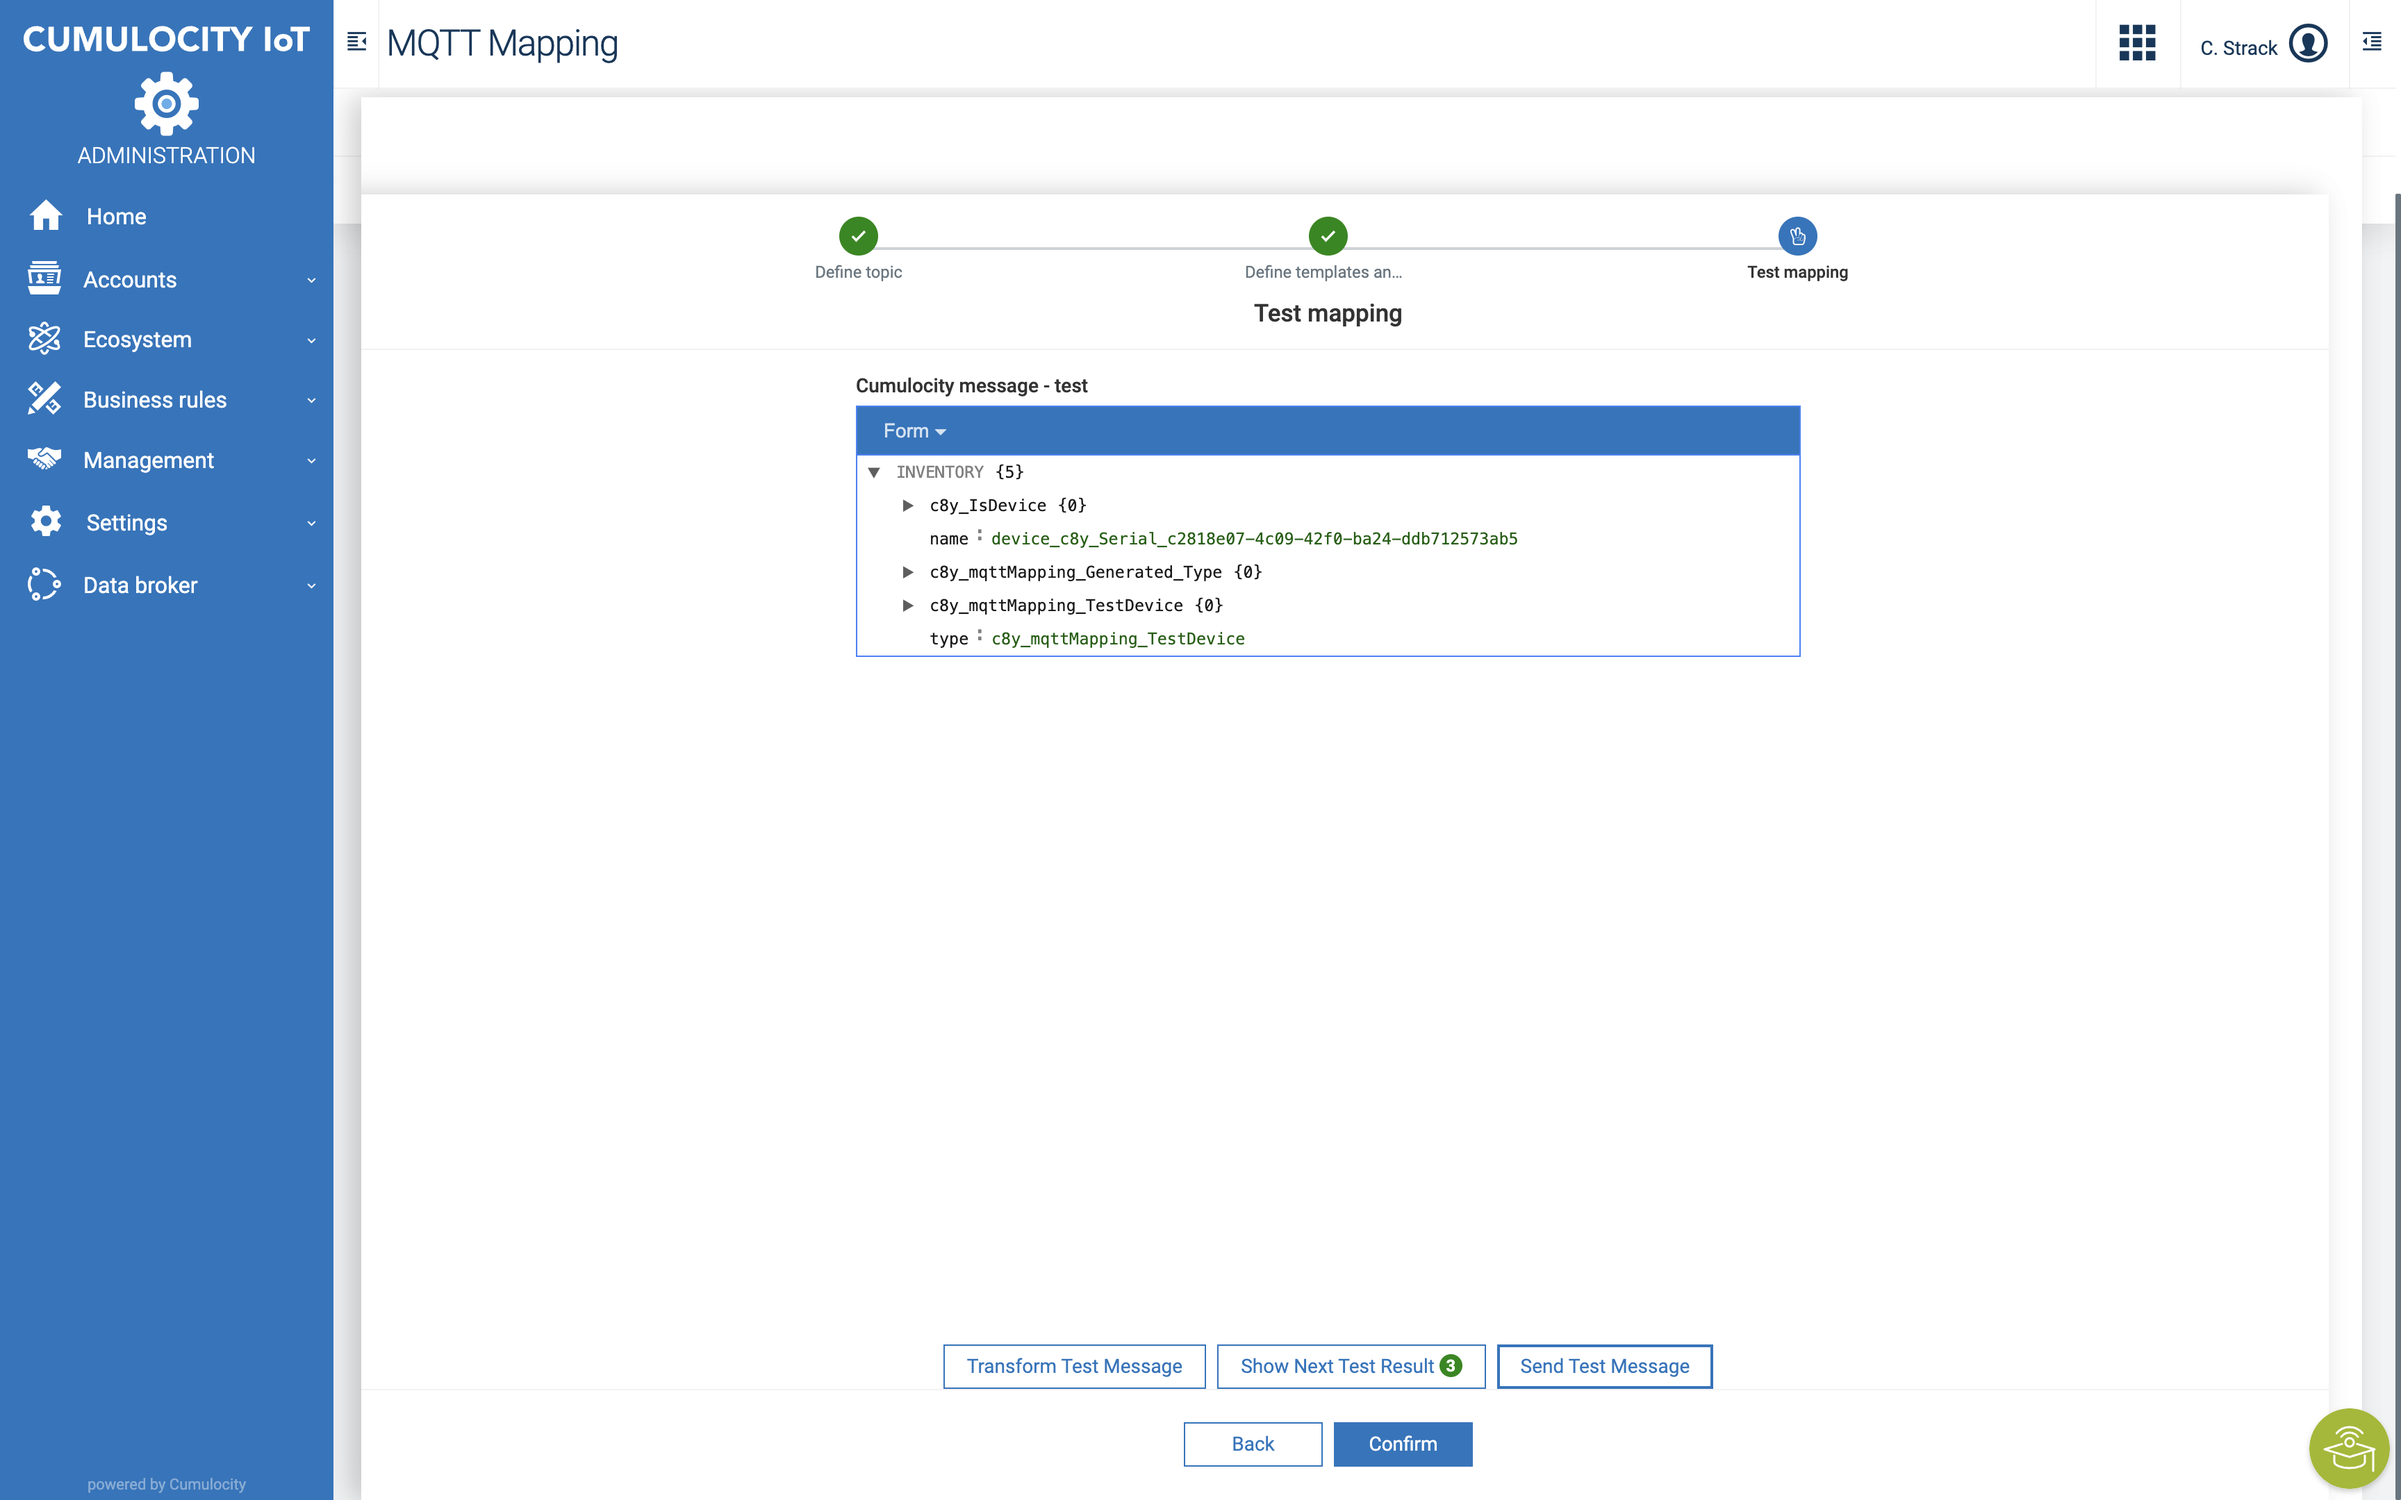
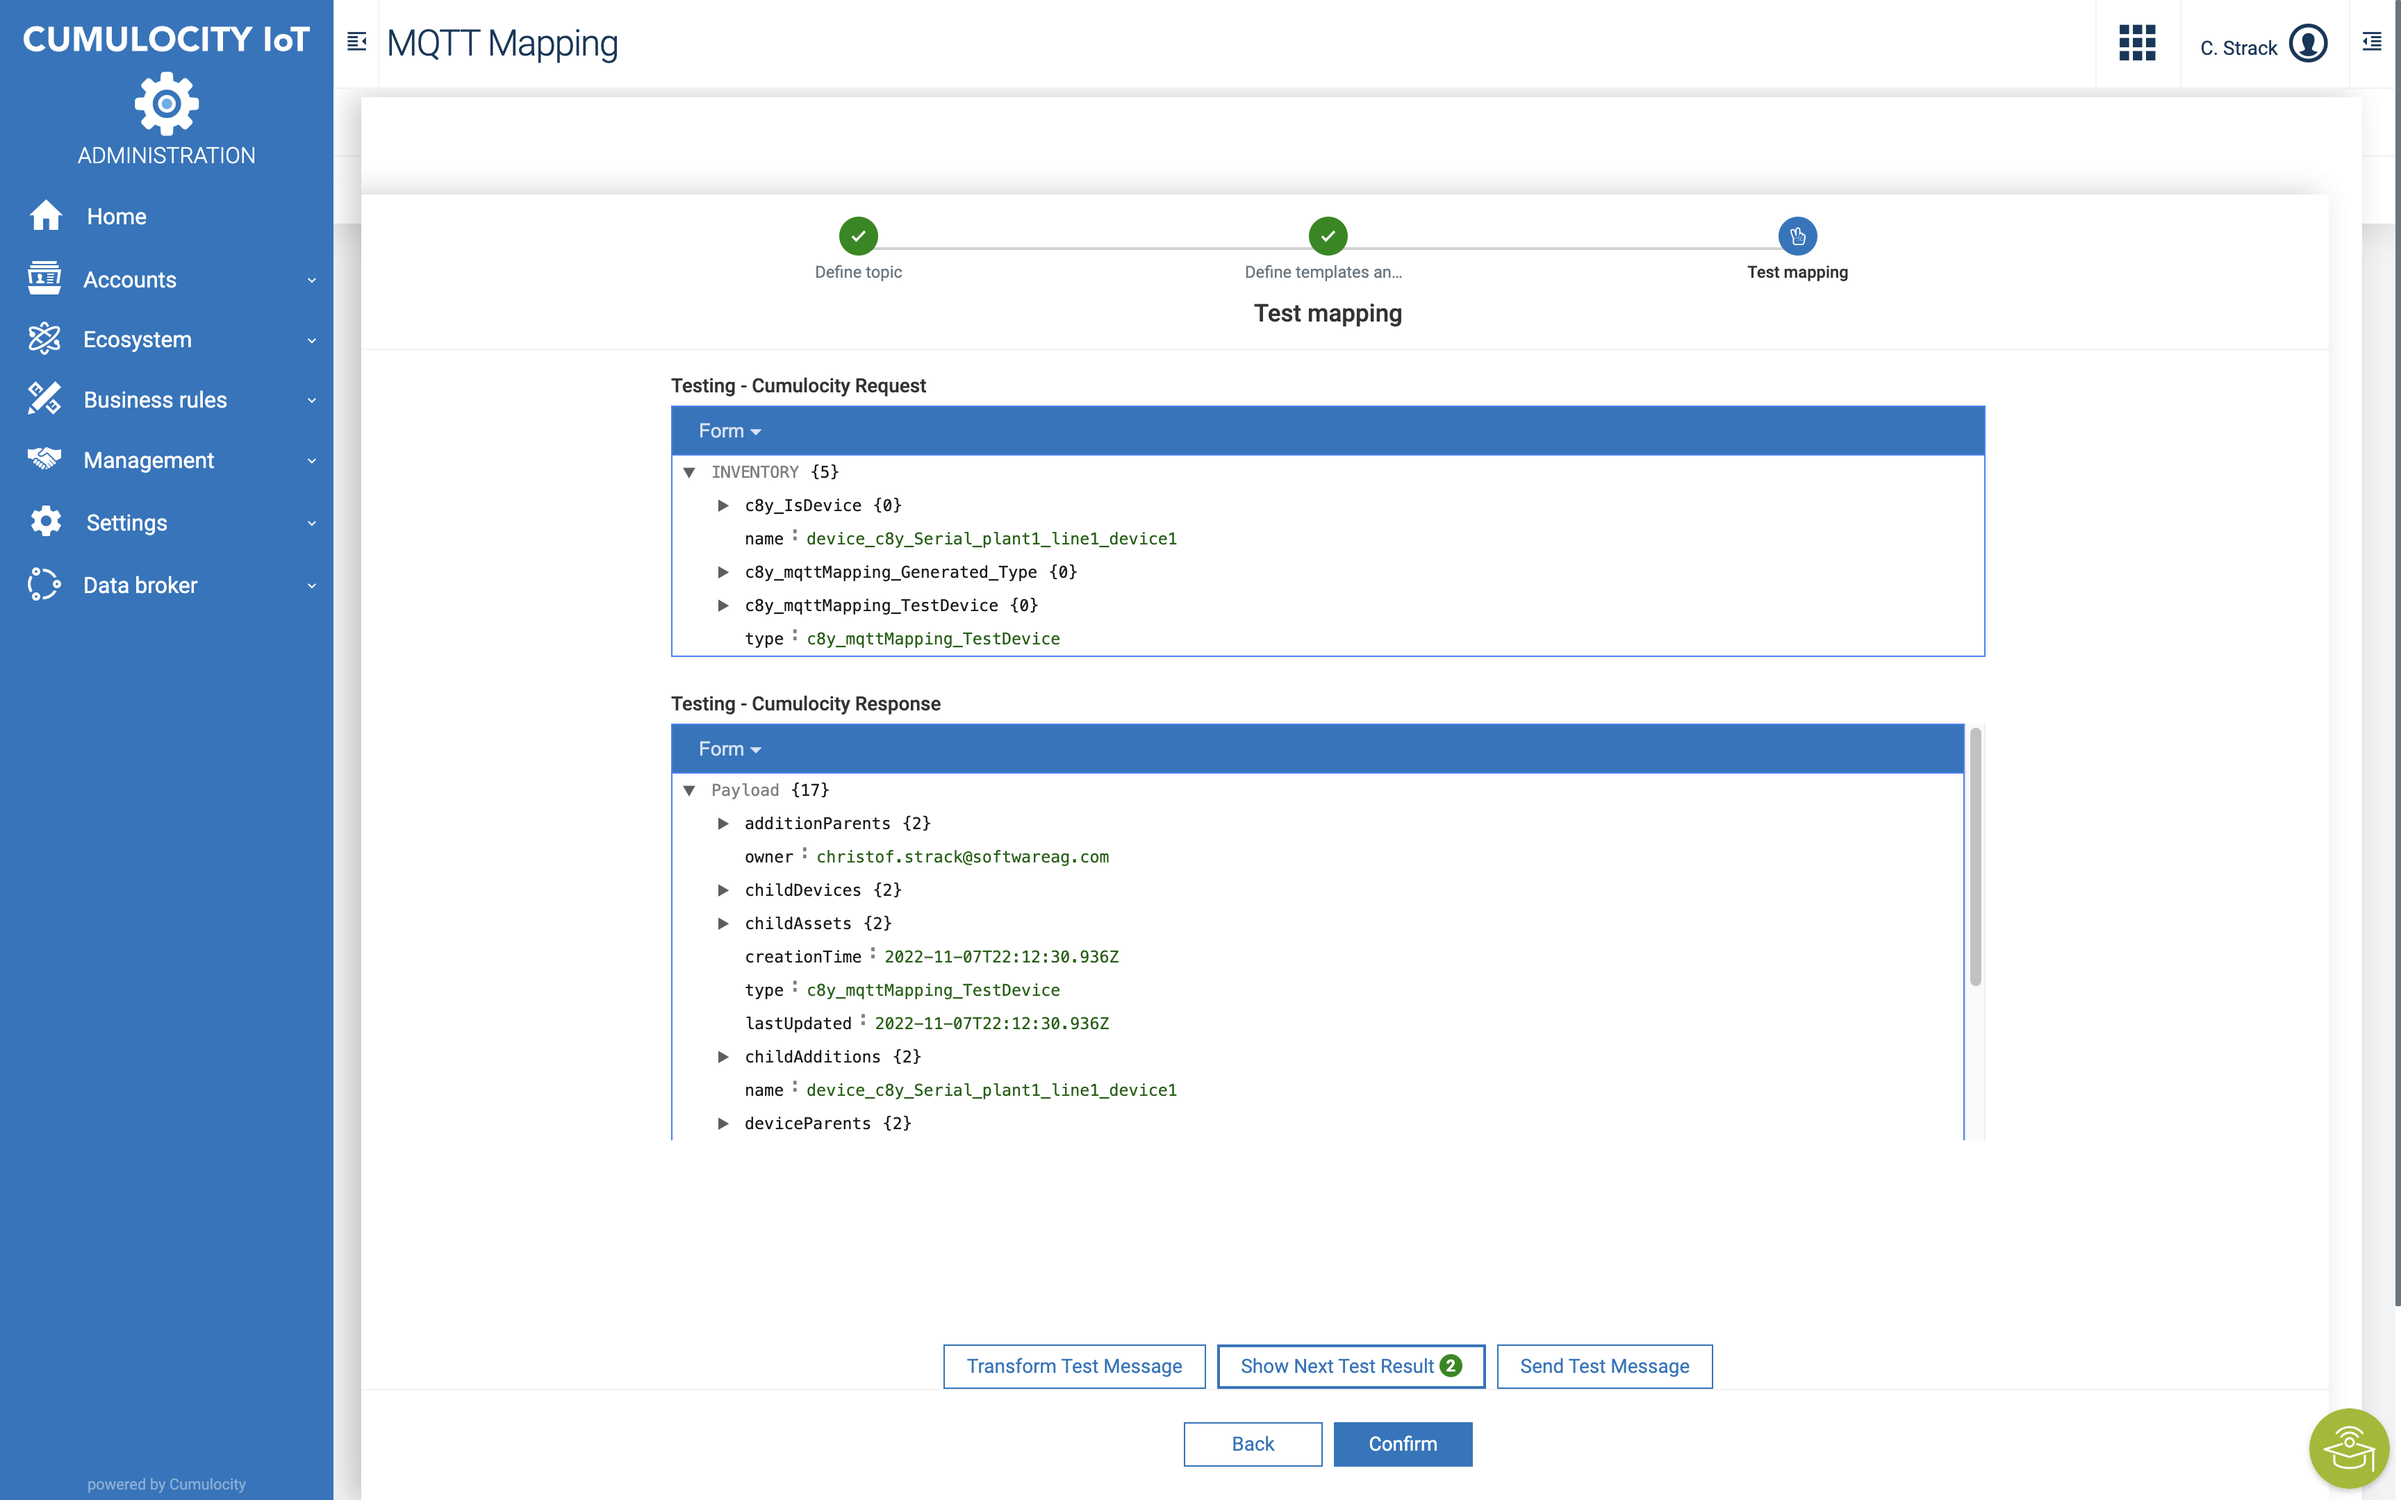
show cumulocty request  when testing as well

diff --git a/frontend/mqtt-mapping/src/mqtt-mapping/stepper/mapping-stepper.component.html b/frontend/mqtt-mapping/src/mqtt-mapping/stepper/mapping-stepper.component.html
@@ -235,7 +235,7 @@
                         <json-editor [options]="editorOptionsSource"
                           (onPathChanged)="onSelectedSourcePathChanged($event)" [data]="templateSource" #editorSource
                           id="editorSource"></json-editor>
-                          <c8y-messages class="text-left">
+                        <c8y-messages class="text-left">
                           <c8y-message *ngIf="currentSubstitution.pathSource == ''" translate><span
                               class="text-warning">Select source node to
                               define substitution!</span>
@@ -389,8 +389,8 @@
                         </mapping-substitution-renderer>
                       </div>
                       <c8y-messages class="text-right">
-                        <c8y-message
-                          *ngIf="(countDeviceIdentifers$ |async) != 1"><span class="text-warning">Excactly one substitution defining the
+                        <c8y-message *ngIf="(countDeviceIdentifers$ |async) != 1"><span class="text-warning">Excactly
+                            one substitution defining the
                             DeviceIdentifier must be used.</span>
                         </c8y-message>
                       </c8y-messages>
@@ -591,16 +591,28 @@
         <div class="col-xs-12 flex-grow no-gutter">
           <div class="card-inner-scroll fit-h">
             <div class="card-block p-b-0">
-              <div class="col-md-6 col-md-offset-3 col-lg-6 col-lg-offset-3">
-                <div>
-                  <div class="form-group">
-                    <label for="testResult" class="" translate>Cumulocity message - test</label>
-                    <json-editor [options]="editorOptionsTesting" [data]="templateTesting" #editorTesting></json-editor>
-                    <c8y-messages>
-                      <c8y-message *ngIf="templateTestingErrorMsg" translate><span
-                          class="text-warning">{{templateTestingErrorMsg}}</span>
-                      </c8y-message>
-                    </c8y-messages>
+              <div class="container">
+                <div class="row">
+                  <div class="col-md-6 col-md-offset-3 col-lg-10 col-lg-offset-1">
+                    <div class="form-group">
+                      <label for="testResult" class="" translate>Testing - Cumulocity Request</label>
+                      <json-editor [options]="editorOptionsTesting" [data]="templateTestingRequest" #editorTestingRequest>
+                      </json-editor>
+                      <c8y-messages>
+                        <c8y-message *ngIf="templateTestingErrorMsg" translate><span
+                            class="text-warning">{{templateTestingErrorMsg}}</span>
+                        </c8y-message>
+                      </c8y-messages>
+                    </div>
+                  </div>
+                </div>
+                <div class="row">
+                  <div class="col-md-6 col-md-offset-3 col-lg-10 col-lg-offset-1">
+                    <div class="form-group">
+                      <label for="testResult" class="" translate>Testing - Cumulocity Response</label>
+                      <json-editor [options]="editorOptionsTesting" [data]="templateTestingResponse" #editorTestingResponse>
+                      </json-editor>
+                    </div>
                   </div>
                 </div>
               </div>

diff --git a/frontend/mqtt-mapping/src/mqtt-mapping/stepper/mapping-stepper.component.ts b/frontend/mqtt-mapping/src/mqtt-mapping/stepper/mapping-stepper.component.ts
@@ -48,7 +48,8 @@ export class MappingStepperComponent implements OnInit, AfterContentChecked {
   templateTarget: any;
   templateTestingResults: C8YRequest[] = [];
   templateTestingErrorMsg: string;
-  templateTesting: any;
+  templateTestingRequest: any;
+  templateTestingResponse: any;
   selectedTestingResult: number = -1;
   countDeviceIdentifers$: BehaviorSubject<number> = new BehaviorSubject<number>(0);
 
@@ -79,7 +80,8 @@ export class MappingStepperComponent implements OnInit, AfterContentChecked {
 
   @ViewChild('editorSource', { static: false }) editorSource: JsonEditorComponent;
   @ViewChild('editorTarget', { static: false }) editorTarget: JsonEditorComponent;
-  @ViewChild('editorTesting', { static: false }) editorTesting: JsonEditorComponent;
+  @ViewChild('editorTestingRequest', { static: false }) editorTestingRequest: JsonEditorComponent;
+  @ViewChild('editorTestingResponse', { static: false }) editorTestingResponse: JsonEditorComponent;
 
   @ViewChild(SubstitutionRendererComponent, { static: false }) substitutionChild: SubstitutionRendererComponent;
 
@@ -284,11 +286,13 @@ export class MappingStepperComponent implements OnInit, AfterContentChecked {
     }
     this.selectedTestingResult++;
     if (this.selectedTestingResult >= 0 && this.selectedTestingResult < this.templateTestingResults.length ) {
-      this.templateTesting = this.templateTestingResults[this.selectedTestingResult].request;
-      this.editorTesting.setSchema(getSchema(this.templateTestingResults[this.selectedTestingResult].targetAPI),null);
+      this.templateTestingRequest = this.templateTestingResults[this.selectedTestingResult].request;
+      this.templateTestingResponse = this.templateTestingResults[this.selectedTestingResult].response;
+      this.editorTestingRequest.setSchema(getSchema(this.templateTestingResults[this.selectedTestingResult].targetAPI),null);
       this.templateTestingErrorMsg = this.templateTestingResults[this.selectedTestingResult].error?.message;
     } else {
-      this.templateTesting = JSON.parse("{}");
+      this.templateTestingRequest = JSON.parse("{}");
+      this.templateTestingResponse = JSON.parse("{}");
       this.templateTestingErrorMsg = undefined;
     }
   }
@@ -350,7 +354,7 @@ export class MappingStepperComponent implements OnInit, AfterContentChecked {
         event.stepper.next();
       }
     } else if (this.step == "Define templates and substitutions") {
-      this.editorTesting.set(this.editorSource.get());
+      this.editorTestingRequest.set(this.editorSource.get());
       this.onSelectSubstitution(0);
       event.stepper.next();
     }
